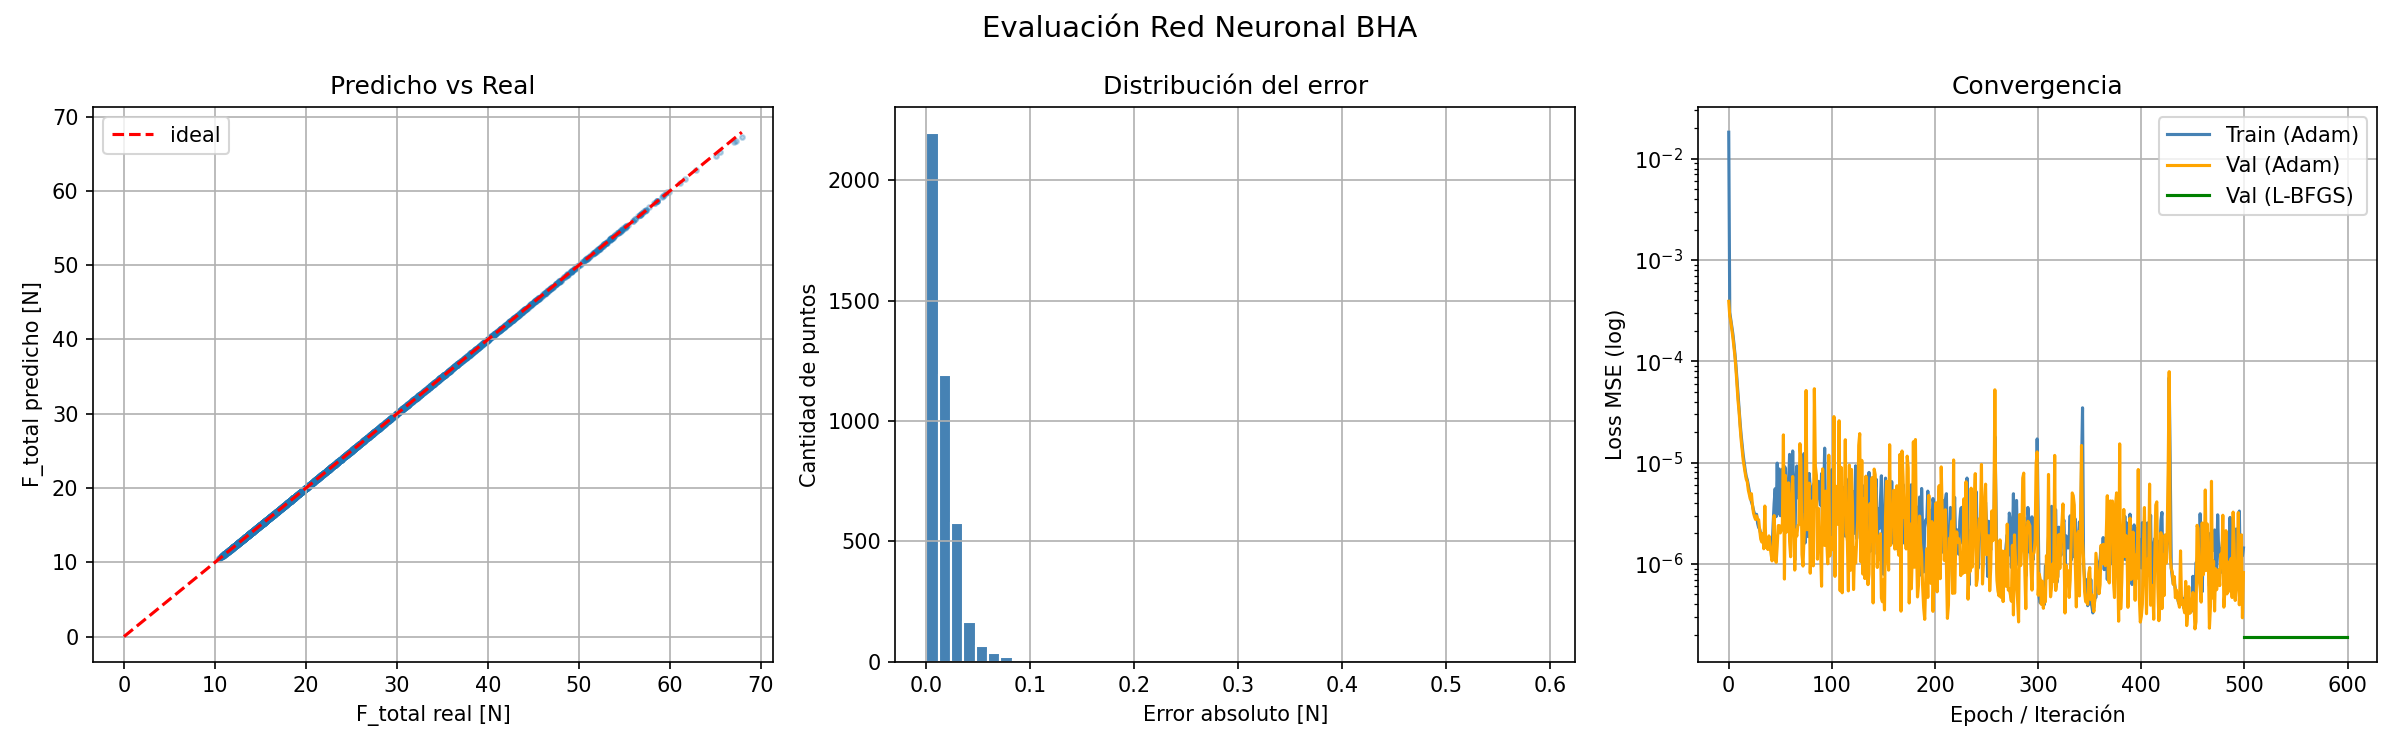
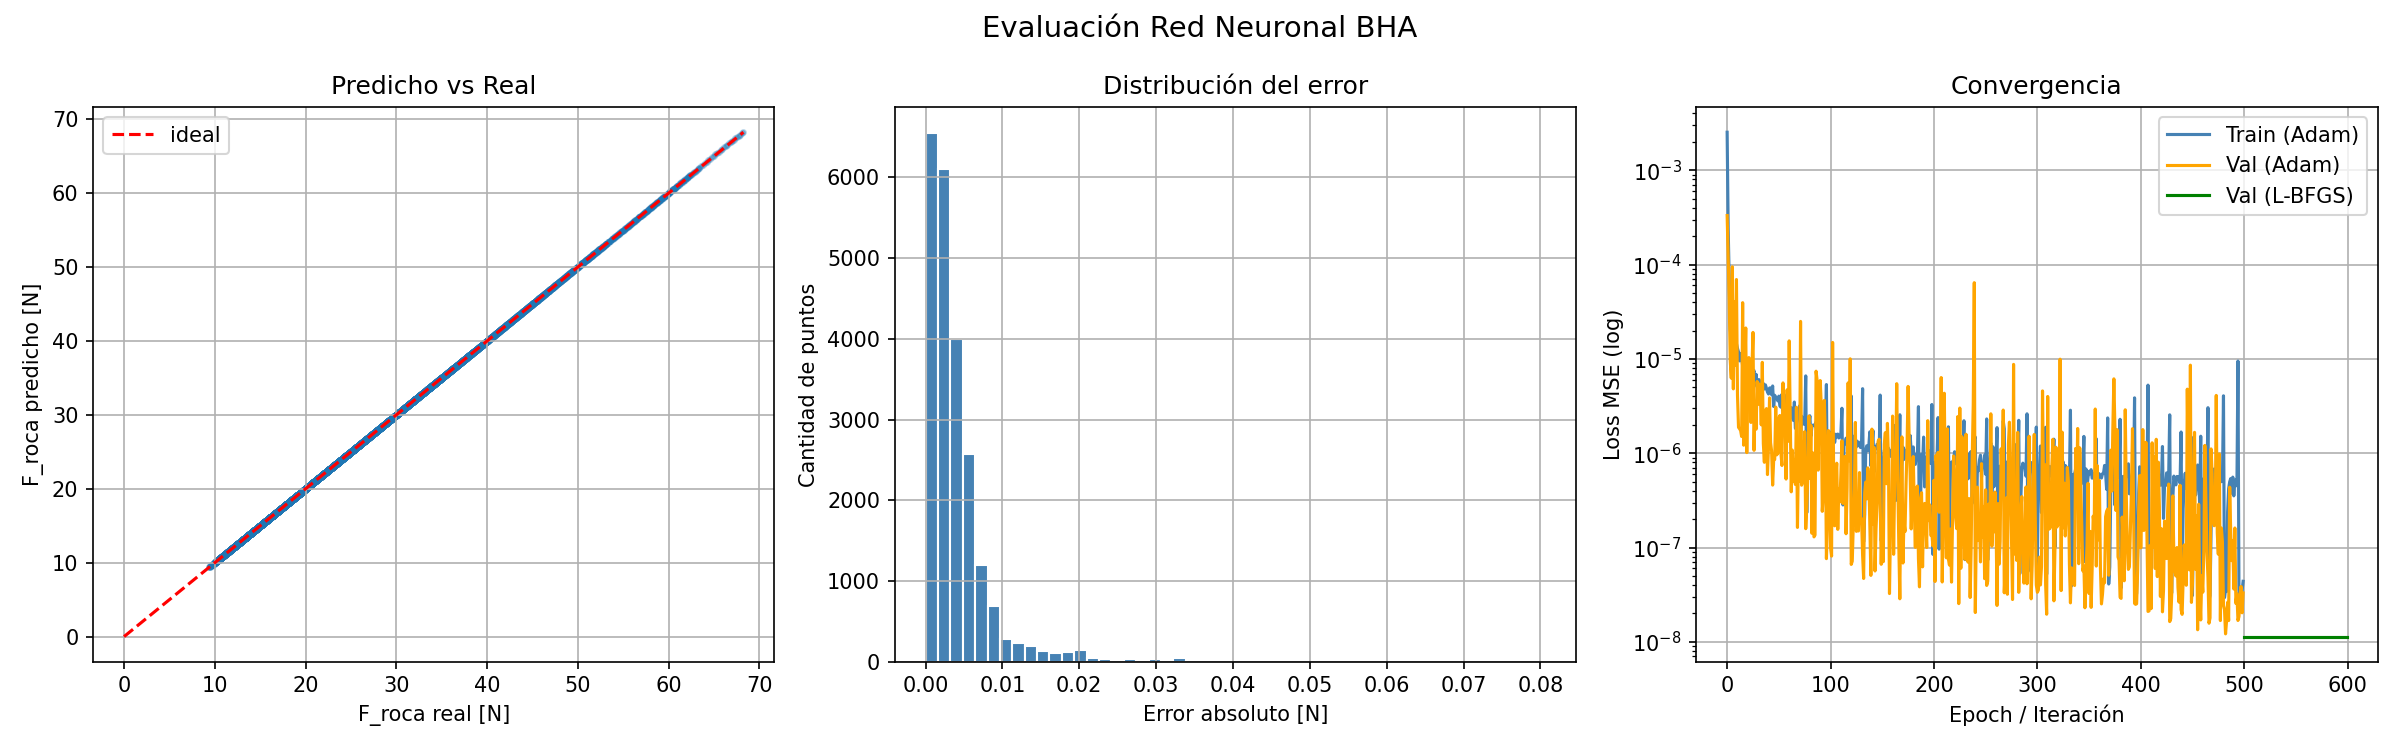
.

diff --git a/NeuralNetwork/main.py b/NeuralNetwork/main.py
@@ -84,7 +84,15 @@ if __name__ == "__main__":
     )
     print(f"Tiempo entrenamiento: {time.time() - t0:.2f}s")
 
-    # ── 5. Ejemplo Sist control ────────────────────────
+        # ── 5. Guardar modelo ─────────────────────────────────────
+    torch.save({
+        'model_state_dict': modelo.state_dict(),
+        'stats': stats,
+        'capas': ARQUITECTURA
+    }, "modelo_red_k_F_UCS_ROP_RPM.pth")
+    print("\nModelo guardado en: modelo_red_k_F_UCS_ROP_RPM.pth")
+    
+    # ── 6. Ejemplo Sist control ────────────────────────
     t0 = time.time()
     print("\n" + "=" * 65)
     print("EJEMPLO CONTROL COMPLETO")
@@ -105,10 +113,6 @@ if __name__ == "__main__":
         modelo, stats, dIds_objetivo, dAds_objetivo, pos_ejemplo, rop_ejemplo, rpm_ejemplo, epsilon_ejemplo
     )
 
-    T1, T2, T3, F_total, kappa = control_completo(
-        modelo, stats, dIds_objetivo, dAds_objetivo, pos_ejemplo, epsilon_ejemplo
-    )
-
     print(f"\nResultados:")
     print(f"  kappa deseado: {kappa:.6f} 1/mm")
     print(f"  F_total:       {F_total:.2f} N")
@@ -119,7 +123,7 @@ if __name__ == "__main__":
     print(f"Tiempo optimizador inverso: {time.time() - t0:.2f}s")
 
 
-# ── 6. Evaluar ────────────────────────────────────────────
+# ── 7. Evaluar ────────────────────────────────────────────
     t0 = time.time()
     print("\n" + "=" * 65)
     print("EVALUACIÓN")
@@ -127,11 +131,3 @@ if __name__ == "__main__":
     evaluar(modelo, X_val, y_val, stats, historial_train, historial_val)
     print(f"Tiempo evaluación: {time.time() - t0:.2f}s")
 
-
-    # ── 7. Guardar modelo ─────────────────────────────────────
-    torch.save({
-        'model_state_dict': modelo.state_dict(),
-        'stats': stats,
-        'capas': ARQUITECTURA
-    }, "modelo_bha.pth")
-    print("\nModelo guardado en: modelo_bha.pth")
